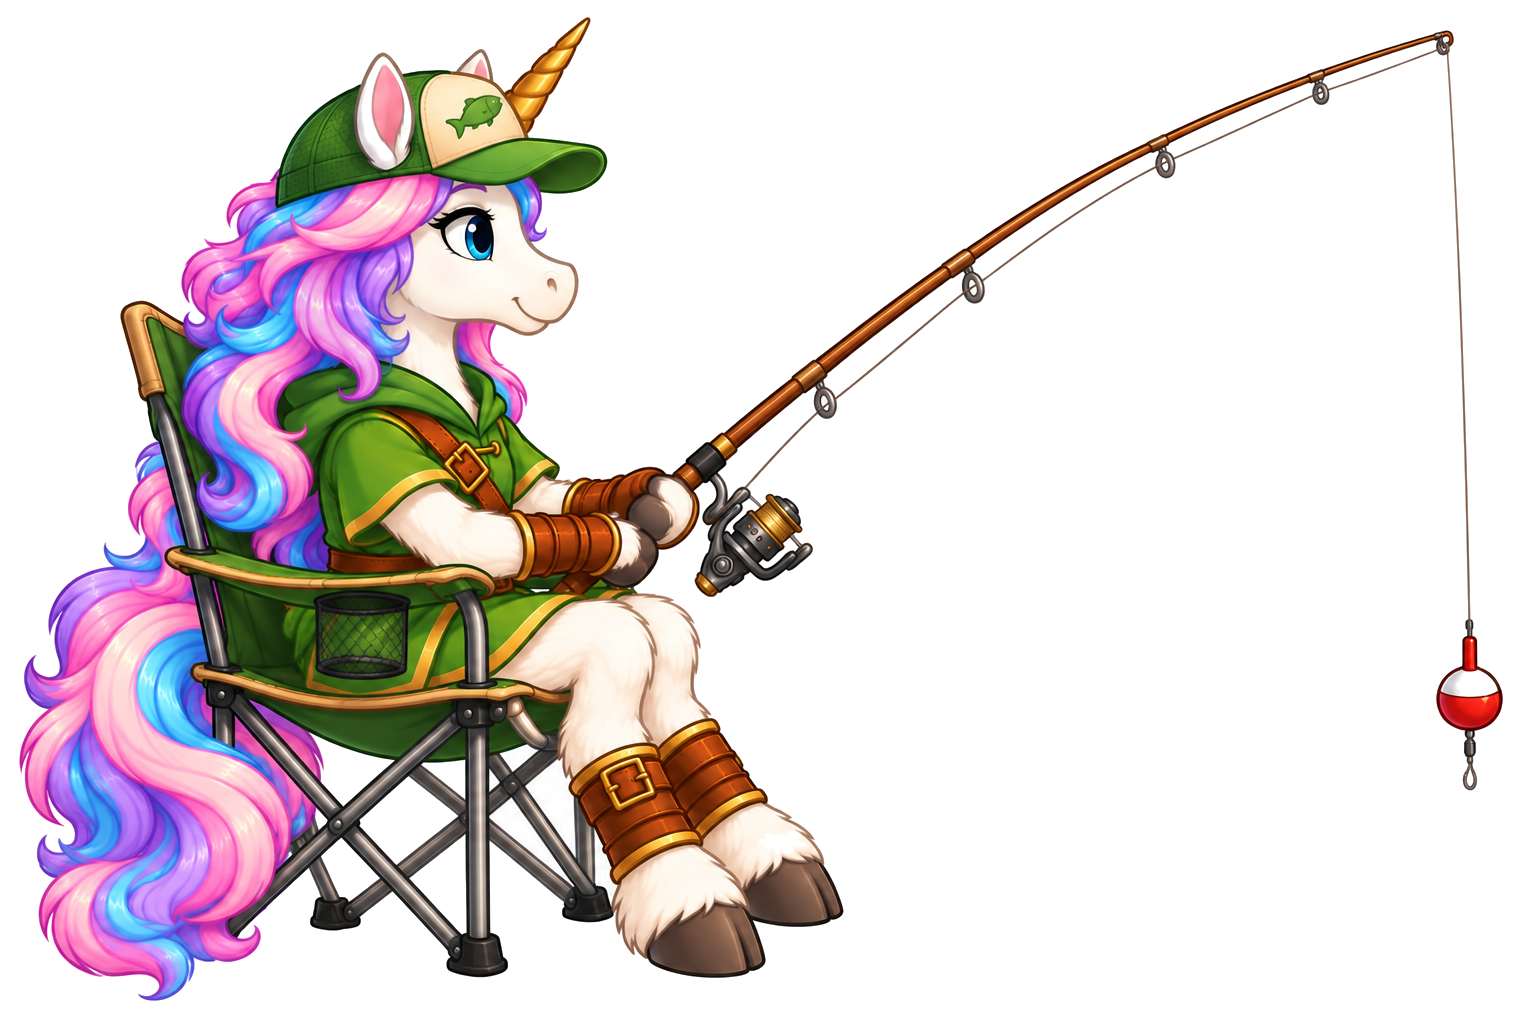
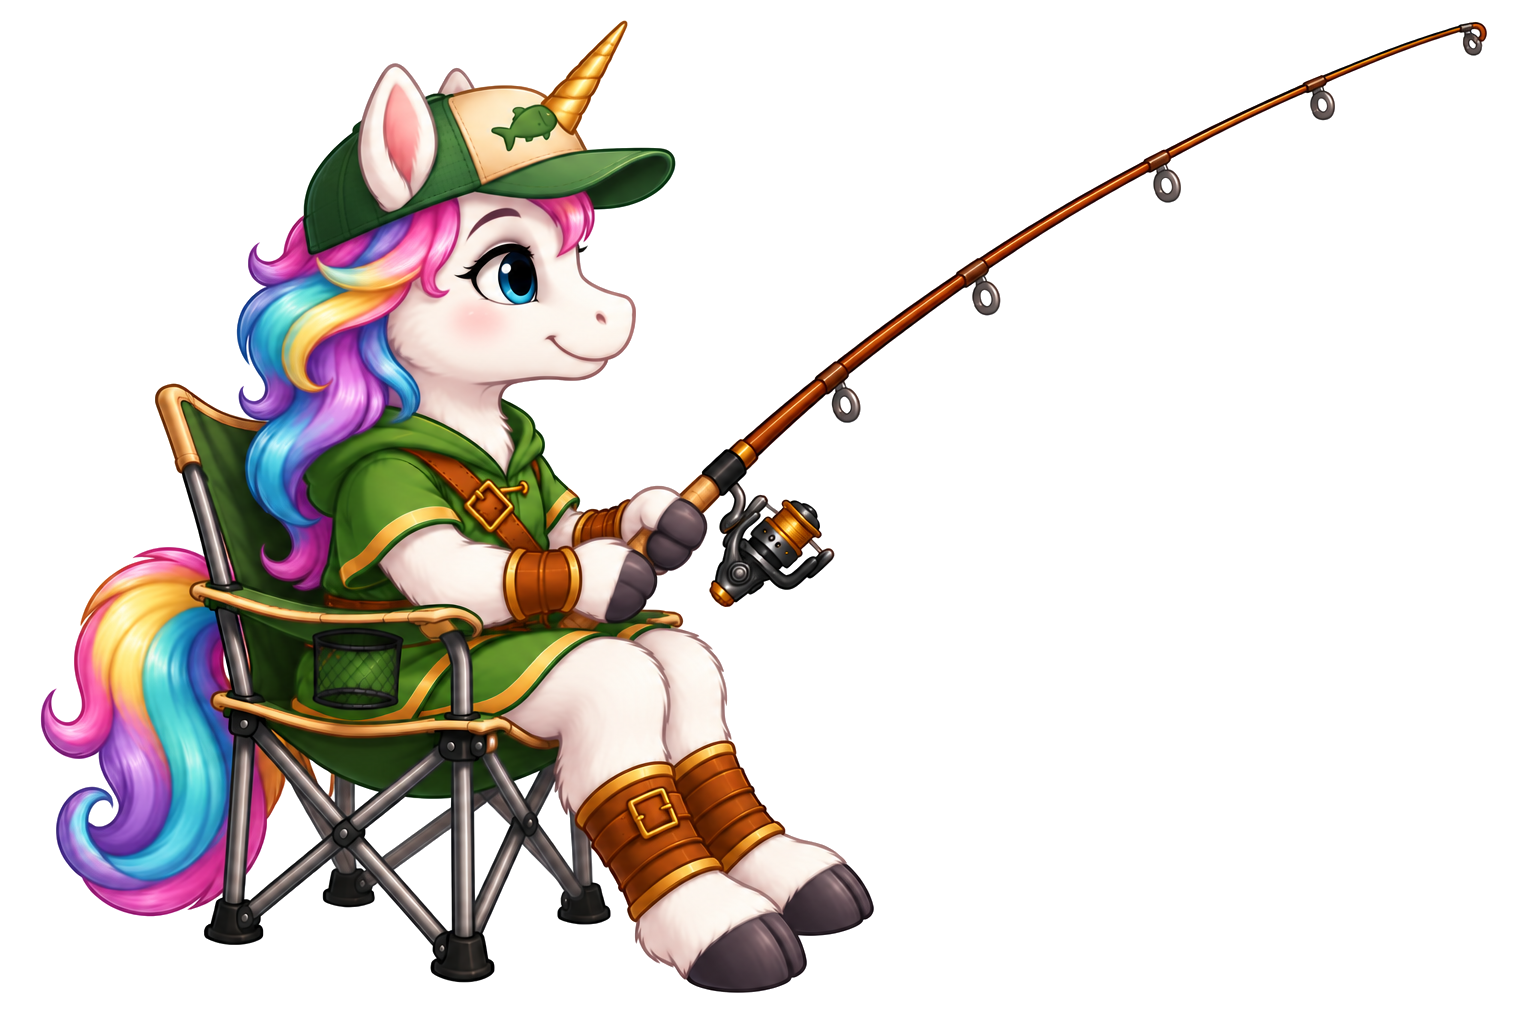
v280: Actualizar unicornio pescador en silla plegable con tanza y boya calibradas

Changed region(s): [[0.0, 0.0, 0.9688, 1.0], [0.9375, 0.5938, 1.0, 0.7812]]

diff --git a/index.html b/index.html
@@ -9,7 +9,7 @@
   <title>CRIN Aventuras de Lectoescritura</title>
   
   <script>
-    const CURRENT_APP_VERSION = 'v279';
+    const CURRENT_APP_VERSION = 'v280';
 
     function syncAppVersionLabels() {
       try {
@@ -106,19 +106,19 @@
     } catch(e) {}
   </script>
   <!-- BASE DE DATOS LÉXICA CANÓNICA (Cualidades: escritura, pronunciacion, letras, silabas, emoji) -->
-  <script src="lexicon.js?v=279"></script>
+  <script src="lexicon.js?v=280"></script>
   <!-- 🏹 NUEVA AVENTURA: EL ARQUERO DE CRIN -->
-  <script src="archery.js?v=279"></script>
+  <script src="archery.js?v=280"></script>
   <!-- 🧪 MÓDULO PSICOPEDAGÓGICO 1: EL CALDERO MÁGICO DE LAS RIMAS -->
-  <script src="cauldron.js?v=279"></script>
+  <script src="cauldron.js?v=280"></script>
   <!-- 🐟 MÓDULO PSICOPEDAGÓGICO 2: EL PESCADOR DE SÍLABAS -->
-  <script src="fisherman.js?v=279"></script>
+  <script src="fisherman.js?v=280"></script>
   <!-- 🚂 MÓDULO PSICOPEDAGÓGICO 3: EL TREN DE LOS SONIDOS (ELKONIN) -->
-  <script src="train.js?v=279"></script>
+  <script src="train.js?v=280"></script>
   <!-- 🔍 MÓDULO PSICOPEDAGÓGICO 4: EL DETECTIVE DE SONIDOS GEMELOS -->
-  <script src="detective.js?v=279"></script>
+  <script src="detective.js?v=280"></script>
   <!-- 💬 MÓDULO PSICOPEDAGÓGICO 5: EL TECLADO DE PICTOGRAMAS SAAC -->
-  <script src="aac_keyboard.js?v=279"></script>
+  <script src="aac_keyboard.js?v=280"></script>
   <!-- MOTOR DE VOZ EN ESPAÑOL GARANTIZADO (ResponsiveVoice) -->
   <script src="https://code.responsivevoice.org/responsivevoice.js"></script>
 
@@ -2353,7 +2353,7 @@
           <!-- UNICORNIO PESCADOR -->
           <div onclick="setFishermanPet('🦄')" style="background: linear-gradient(145deg, #FAF5FF, #F3E8FF); border: 3px solid #C084FC; border-radius: 20px; padding: 10px; cursor: pointer; transition: all 0.2s; box-shadow: 0 4px 12px rgba(192, 132, 252, 0.25); text-align: center;" onmouseover="this.style.transform='translateY(-4px) scale(1.03)'; this.style.borderColor='#9333EA';" onmouseout="this.style.transform='none'; this.style.borderColor='#C084FC';">
             <div style="width: 100%; height: 125px; display: flex; align-items: center; justify-content: center; overflow: hidden; border-radius: 14px; background: rgba(255,255,255,0.7);">
-              <img src="assets/unicornio_pescador.png?v=255" alt="Unicornio Pescador" style="width: 100%; height: 100%; object-fit: contain;">
+              <img src="assets/unicornio_pescador.png?v=280" alt="Unicornio Pescador" style="width: 100%; height: 100%; object-fit: contain;">
             </div>
             <div style="font-size: 14px; font-weight: 900; color: #6B21A8; margin-top: 8px;">🦄 Unicornio Mágico</div>
             <div style="font-size: 11px; font-weight: 700; color: #7E22CE; opacity: 0.85;">Silla plegable y caña mágica</div>
@@ -2362,7 +2362,7 @@
           <!-- CONEJITO PESCADOR -->
           <div onclick="setFishermanPet('🐰')" style="background: linear-gradient(145deg, #F0FDF4, #DCFCE7); border: 3px solid #4ADE80; border-radius: 20px; padding: 10px; cursor: pointer; transition: all 0.2s; box-shadow: 0 4px 12px rgba(74, 222, 128, 0.25); text-align: center;" onmouseover="this.style.transform='translateY(-4px) scale(1.03)'; this.style.borderColor='#16A34A';" onmouseout="this.style.transform='none'; this.style.borderColor='#4ADE80';">
             <div style="width: 100%; height: 125px; display: flex; align-items: center; justify-content: center; overflow: hidden; border-radius: 14px; background: rgba(255,255,255,0.7);">
-              <img src="assets/conejo_pescador.png?v=255" alt="Conejito Pescador" style="width: 100%; height: 100%; object-fit: contain;">
+              <img src="assets/conejo_pescador.png?v=280" alt="Conejito Pescador" style="width: 100%; height: 100%; object-fit: contain;">
             </div>
             <div style="font-size: 14px; font-weight: 900; color: #15803D; margin-top: 8px;">🐰 Conejito Pescador</div>
             <div style="font-size: 11px; font-weight: 700; color: #166534; opacity: 0.85;">Silla de camping y gorrita</div>
@@ -2371,7 +2371,7 @@
           <!-- PERRITO PESCADOR -->
           <div onclick="setFishermanPet('🐶')" style="background: linear-gradient(145deg, #FEFCE8, #FEF9C3); border: 3px solid #FACC15; border-radius: 20px; padding: 10px; cursor: pointer; transition: all 0.2s; box-shadow: 0 4px 12px rgba(250, 204, 21, 0.25); text-align: center;" onmouseover="this.style.transform='translateY(-4px) scale(1.03)'; this.style.borderColor='#CA8A04';" onmouseout="this.style.transform='none'; this.style.borderColor='#FACC15';">
             <div style="width: 100%; height: 125px; display: flex; align-items: center; justify-content: center; overflow: hidden; border-radius: 14px; background: rgba(255,255,255,0.7);">
-              <img src="assets/perro_pescador.png?v=255" alt="Perrito Pescador" style="width: 100%; height: 100%; object-fit: contain;">
+              <img src="assets/perro_pescador.png?v=280" alt="Perrito Pescador" style="width: 100%; height: 100%; object-fit: contain;">
             </div>
             <div style="font-size: 14px; font-weight: 900; color: #A16207; margin-top: 8px;">🐶 Perrito Pescador</div>
             <div style="font-size: 11px; font-weight: 700; color: #854D0E; opacity: 0.85;">Silla verde y caña dorada</div>

diff --git a/fisherman.js b/fisherman.js
@@ -123,11 +123,11 @@
     '🦄': {
       id: 'unicornio',
       name: 'Unicornio Mágico',
-      src: 'assets/unicornio_pescador.png?v=255',
+      src: 'assets/unicornio_pescador.png?v=280',
       cardSrc: 'assets/card_unicornio_arquero.png?v=249',
-      rodTipNormalizedX: 0.9466,
-      rodTipNormalizedY: 0.1426,
-      chairFeetNormalizedY: 0.9766,
+      rodTipNormalizedX: 0.9603,
+      rodTipNormalizedY: 0.0469, // Ojo metálico terminal de la caña donde nace la tanza dinámica
+      chairFeetNormalizedY: 0.9688,
       aspectRatio: 1.5
     },
     '🐰': {
@@ -153,9 +153,9 @@
   };
 
   // Pre-carga inmediata de los pescadores oficiales en memoria
-  getCachedImage('assets/unicornio_pescador.png?v=255');
-  getCachedImage('assets/conejo_pescador.png?v=255');
-  getCachedImage('assets/perro_pescador.png?v=255');
+  getCachedImage('assets/unicornio_pescador.png?v=280');
+  getCachedImage('assets/conejo_pescador.png?v=280');
+  getCachedImage('assets/perro_pescador.png?v=280');
 
   function getActiveFishermanPet() {
     if (FishermanGame.activePet && FISHERMAN_AVATARS[FishermanGame.activePet]) {
